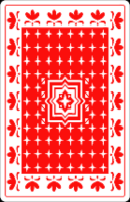
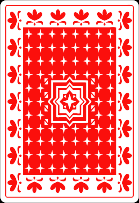
fixed the low quality image in the 992px breakpoint

diff --git a/src/components/Game/Buttons/PlayButton/PlayButton.tsx b/src/components/Game/Buttons/PlayButton/PlayButton.tsx
@@ -1,27 +1,28 @@
 import React, { useRef } from "react";
-import { useAppDispatch, useAppSelector } from "../../../hooks/reduxHooks";
+import { useAppDispatch, useAppSelector } from "../../../../hooks/reduxHooks";
 import {
   addLeftLowerCard,
   generateRightLowerCard,
   generateRightUpperCard,
-} from "../../../redux/cells/slice";
+} from "../../../../redux/cells/slice";
 import { useEffect } from "react";
-import { ICard } from "../../../classes/CardClass";
+import { ICard } from "../../../../classes/CardClass";
 import {
   setCounterLower,
   setCounterUpper,
-} from "../../../redux/counters/slice";
+} from "../../../../redux/counters/slice";
 import {
   lockPlay,
   unlockDrawMore,
   unlockEnough,
-} from "../../../redux/buttons/slice";
-import { setTextError } from "../../../redux/errorText/slice";
-import { showErrorModal } from "../../../redux/modals/slice";
-import { setDeck } from "../../../redux/deck/slice";
-import { setChipsBalance } from "../../../redux/chipsBalance/slice";
-import { setPossibleBlackjack } from "../../../redux/possibleBlackjack/slice";
-import "./Button.scss";
+} from "../../../../redux/buttons/slice";
+import { setTextError } from "../../../../redux/errorText/slice";
+import { showErrorModal } from "../../../../redux/modals/slice";
+import { setDeck } from "../../../../redux/deck/slice";
+import { setChipsBalance } from "../../../../redux/chipsBalance/slice";
+import { setPossibleBlackjack } from "../../../../redux/possibleBlackjack/slice";
+import "../Button.scss";
+import "./PlayButton.scss";
 
 const PlayButton: React.FC<{
   setShowResultModal: (arg: boolean) => void;

diff --git a/src/components/Game/BetOption/BetOption.scss b/src/components/Game/BetOption/BetOption.scss
@@ -10,6 +10,19 @@
     color: white;
     box-shadow: 0 5px 0 orangered;
     cursor: pointer;
+    @media (max-width: 992px) {
+      &:nth-child(1) {
+        width: 130px;
+      }
+
+      &:nth-child(2) {
+        width: 130px;
+      }
+
+      &:nth-child(3) {
+        width: 139px;
+      }
+    }
 
     &:hover {
       transform: translateY(-2px);

diff --git a/src/components/Game/Containers/GameSidebar/GameSidebar.tsx b/src/components/Game/Containers/GameSidebar/GameSidebar.tsx
@@ -1,7 +1,7 @@
 import React from "react";
 import ResultCounter from "../../ResultCounter/ResultCounter";
 import DeckComponent from "../../Deck/DeckComponent";
-import PlayButton from "../../Buttons/PlayButton";
+import PlayButton from "../../Buttons/PlayButton/PlayButton";
 import "./GameSidebar.scss";
 
 const GameSidebar: React.FC<{

diff --git a/src/components/Game/Deck/DeckComponent.scss b/src/components/Game/Deck/DeckComponent.scss
@@ -6,7 +6,7 @@
   border-radius: 8px;
   margin-bottom: 10px;
   @media (max-width: 992px) {
-    width: 130px;
+    width: 139px;
     margin-bottom: 5px;
     height: 202.5px;
     background-image: url("../../../assets/card-back-992px.png");

diff --git a/src/components/Game/Containers/GameSidebar/GameSidebar.scss b/src/components/Game/Containers/GameSidebar/GameSidebar.scss
@@ -2,7 +2,7 @@
   width: 100%;
   height: 100%;
   @media (max-width: 992px) {
-    width: 130px;
+    width: 139px;
     display: flex;
     flex-direction: column;
     justify-content: center;

diff --git a/src/components/Game/Containers/Game/GameComponent.scss b/src/components/Game/Containers/Game/GameComponent.scss
@@ -6,7 +6,7 @@
   width: 596px;
   height: 630px;
   @media (max-width: 992px) {
-    width: 400px;
+    width: 409px;
     height: 470px;
     gap: 5px;
   }

diff --git a/src/components/Game/ResultCounter/ResultCounter.scss b/src/components/Game/ResultCounter/ResultCounter.scss
@@ -13,7 +13,7 @@
     &:nth-child(1) {
       margin-bottom: 5px;
     }
-    width: 130px;
+    width: 139px;
     height: 96.25px;
   }
 }

diff --git a/src/components/Game/Buttons/PlayButton/PlayButton.scss b/src/components/Game/Buttons/PlayButton/PlayButton.scss
@@ -1,0 +1,5 @@
+.sidebar__play-button {
+  @media (max-width: 992px) {
+    width: 139px;
+  }
+}
